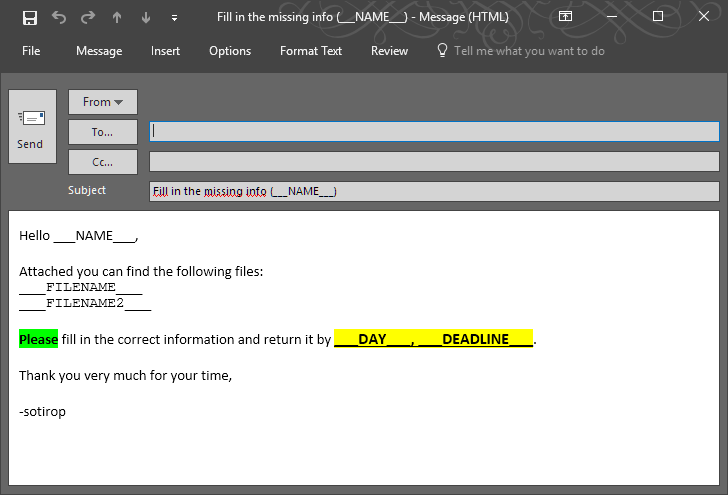
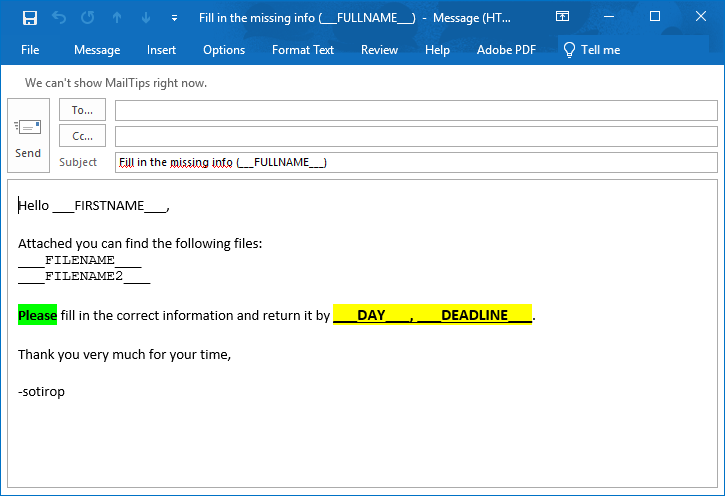
SURNAME FULLNAME added in example. FILENAME attachment clarification
I added SURNAME and FULLNAME columns in the excel file, so that it is
easier to have all options to address someone in the email. Also
clarified the difference between FILENAME and attachment in the
example.

diff --git a/README.md b/README.md
@@ -133,3 +133,5 @@ directory; they all need to be together in the same folder.
 Answer: Check your filename carefully. Have you added the file
 extension, exactly? If mergelooks hits an error with a filename the
 macro stops attaching files to the rest of the emails.
+
+Another thing that might cause confusion is the following: In the particular example, there is `___FILENAME___ ` and `attachment` columns, both with the value `Donald.docx`. The `___FILENAME___` value will be used so that the string `Donald.docx` is mentioned in the email, while the `attachment` value will be used to attach the actual `Donald.docx` file in the corresponding email.
